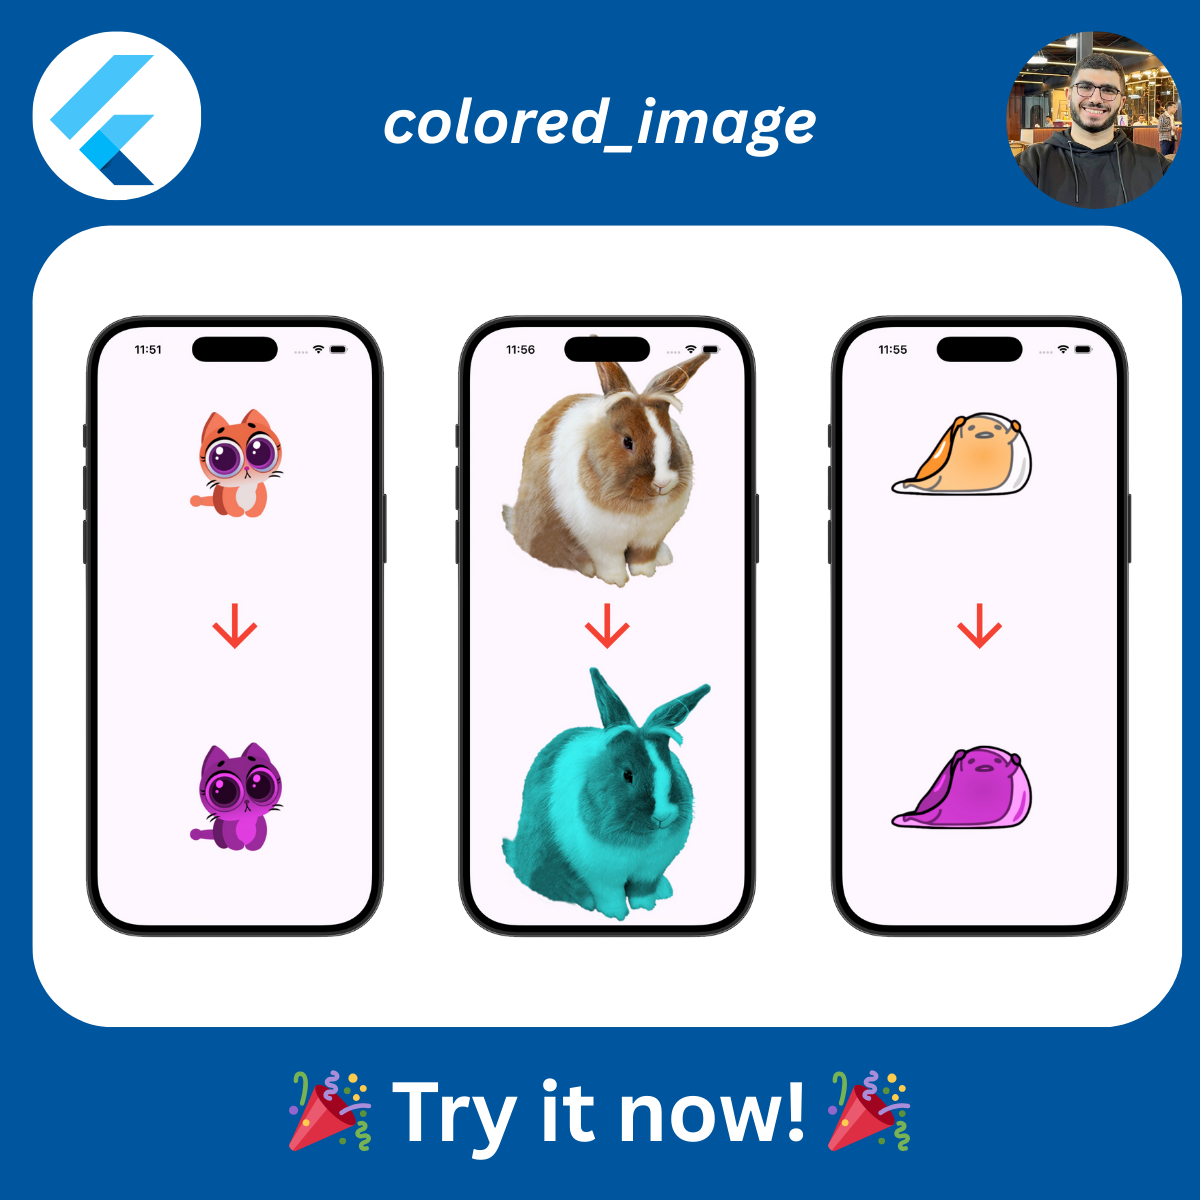
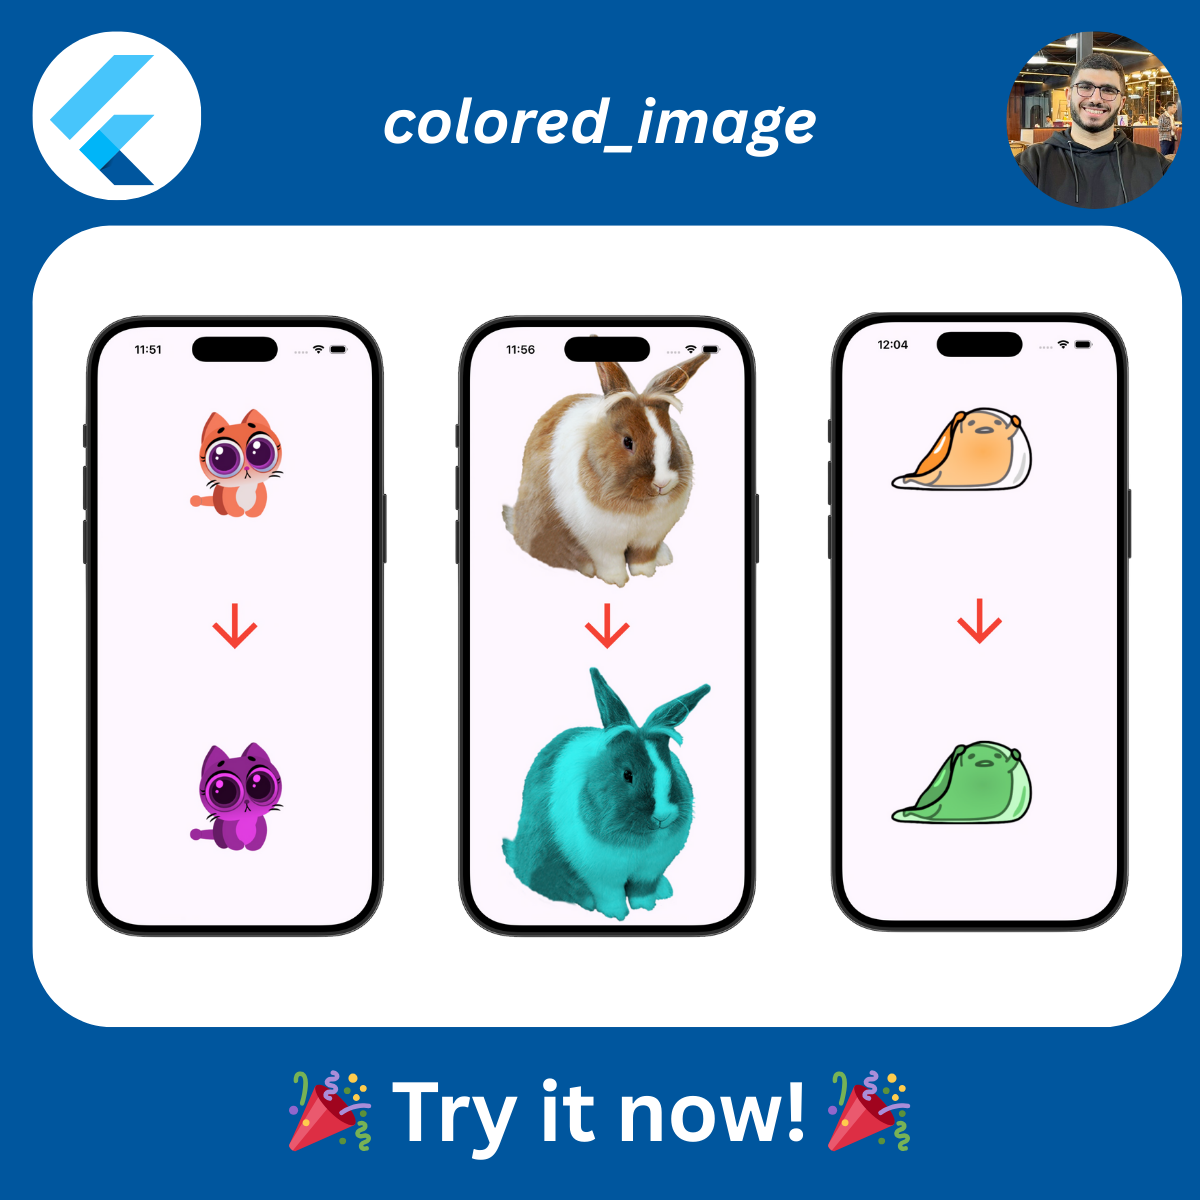
chore: update demo image for v1.0.6

diff --git a/CHANGELOG.md b/CHANGELOG.md
@@ -1,3 +1,8 @@
+## 1.0.6
+
+* Updated demo image
+* Minor documentation improvements
+
 ## 1.0.5
 
 * Added GitHub links for Omar Elmesiry and BrightByte LLC
